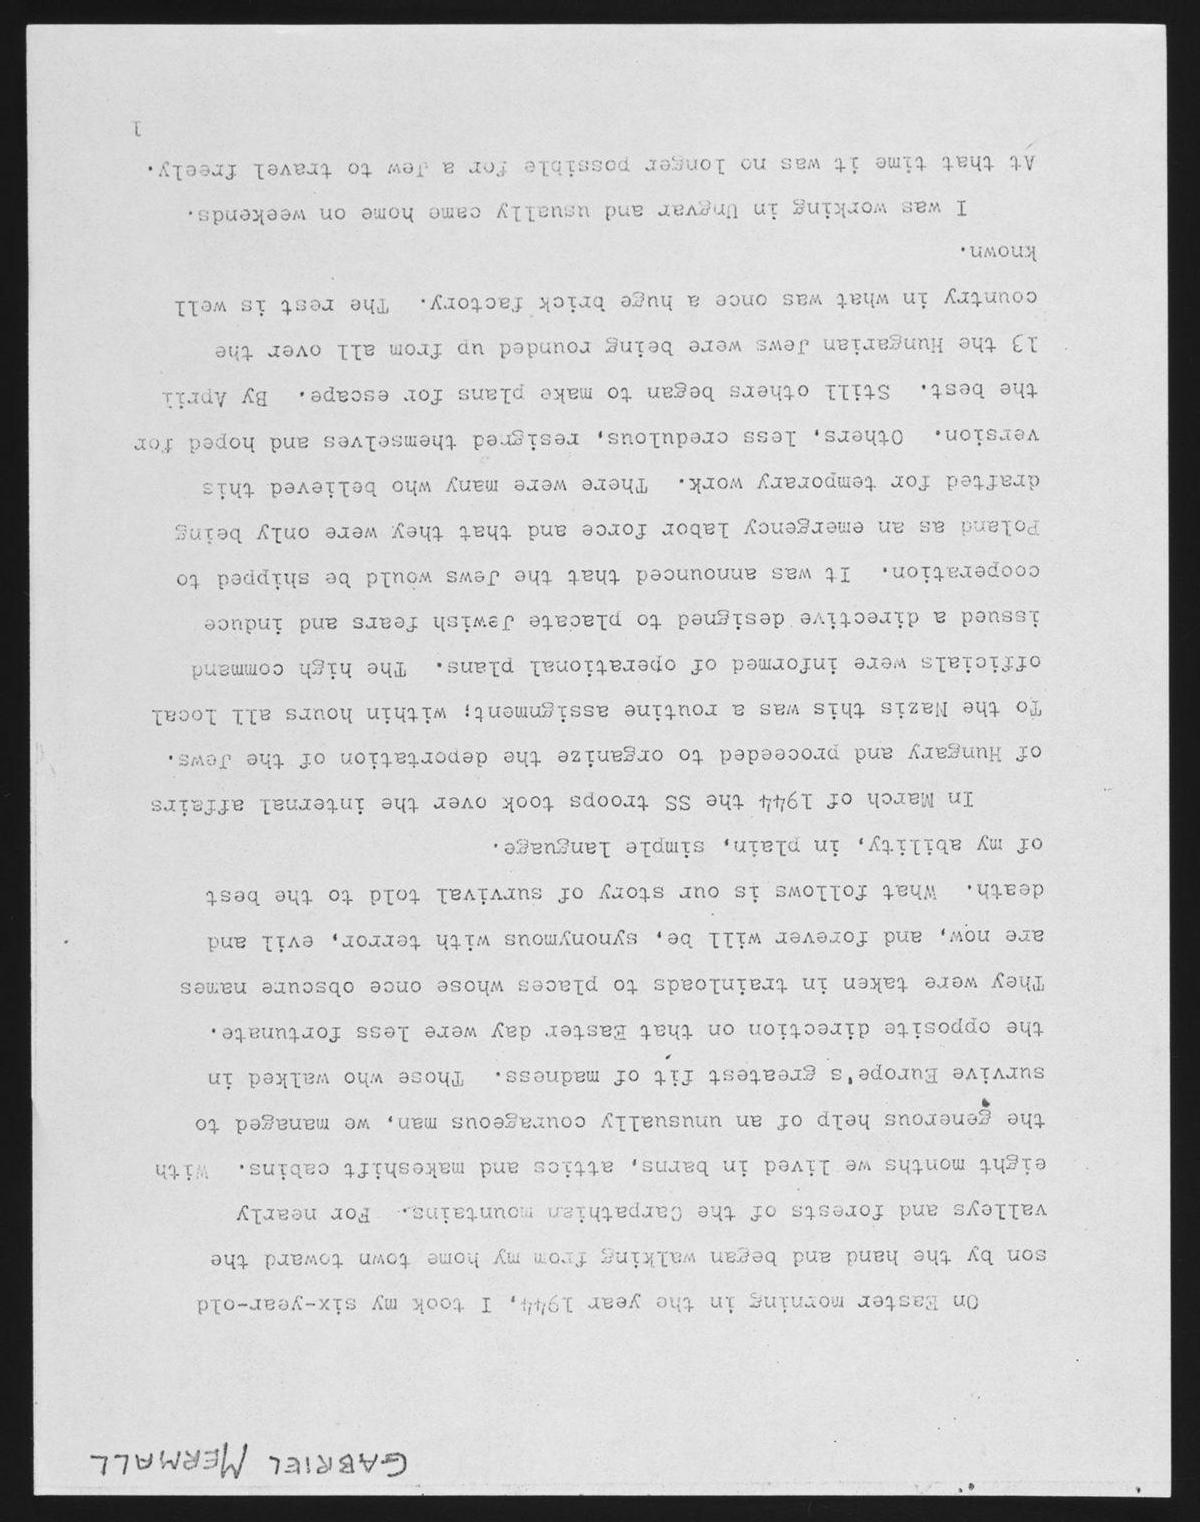
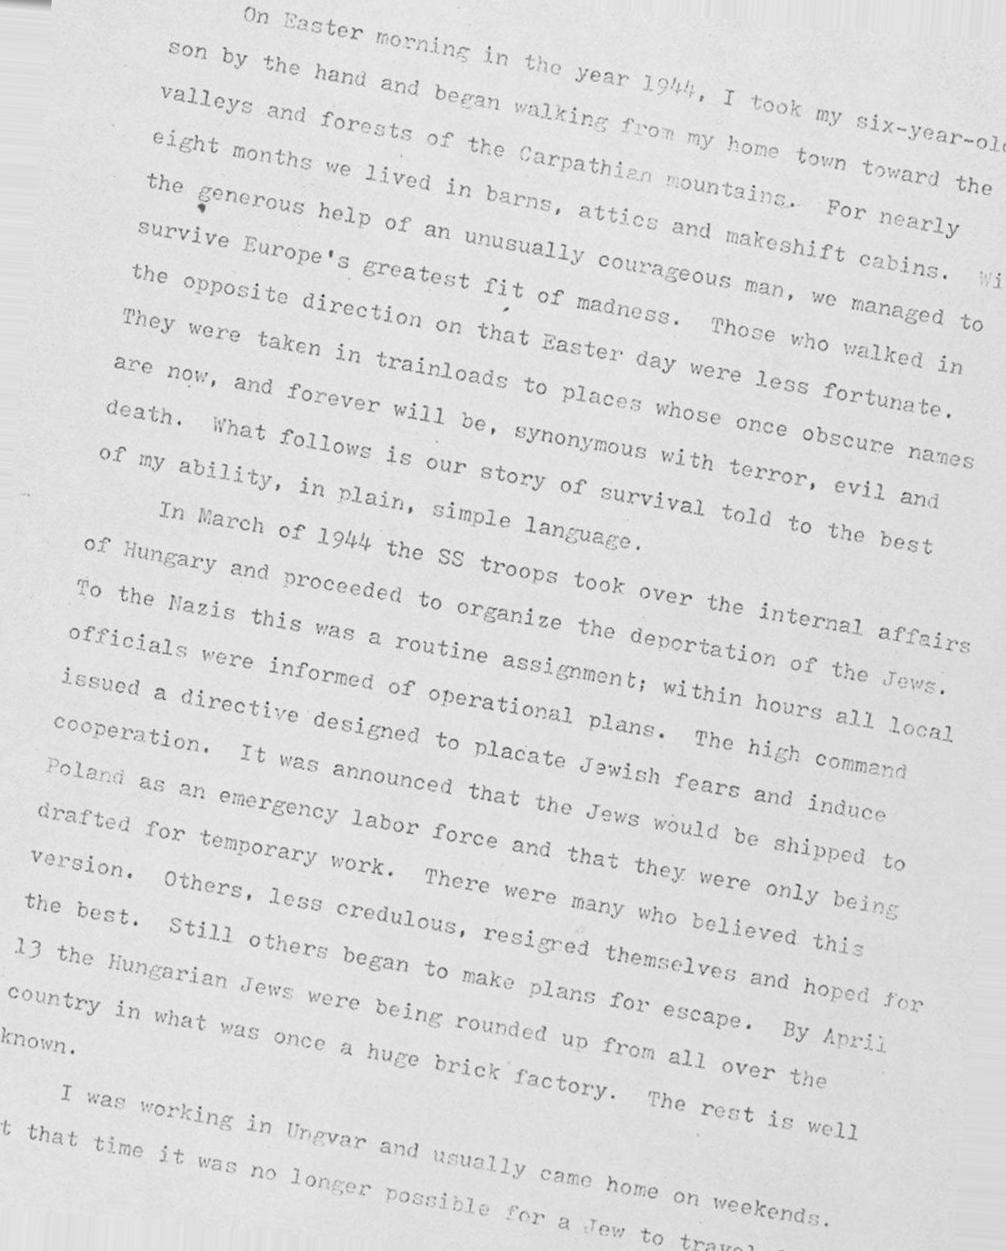
Rotation.py is not finished yet.

diff --git a/ImageProcessing/Rotation.py b/ImageProcessing/Rotation.py
@@ -1,33 +1,53 @@
 from PIL import Image 
 from Utility import Numpy2Image, Image2Numpy
+from GrayImage import GrayImage
+from Convolution import GaussBlur
+from Threshold import OtsuBinaryPx
 import numpy as np 
 import cv2
 
-def GetSkewAngle(cvImage):
+def GetSkewAngle(img):
     # https://github.com/wjbmattingly/ocr_python_textbook/blob/main/02_02_working%20with%20opencv.ipynb
-    # Prep image, copy, convert to gray scale, blur, and threshold
-    newImage = cvImage.copy()
-    gray = cv2.cvtColor(newImage, cv2.COLOR_BGR2GRAY)
-    blur = cv2.GaussianBlur(gray, (9, 9), 0)
-    thresh = cv2.threshold(blur, 0, 255, cv2.THRESH_BINARY_INV + cv2.THRESH_OTSU)[1]
-
-    # Apply dilate to merge text into meaningful lines/paragraphs.
-    # Use larger kernel on X axis to merge characters into single line, cancelling out any spaces.
-    # But use smaller kernel on Y axis to separate between different blocks of text
-    kernel = cv2.getStructuringElement(cv2.MORPH_RECT, (30, 5))
+    
+    #####################################################################################################################
+    
+    newImage = img.copy()
+    gray = GrayImage(newImage)
+    blur = GaussBlur(gray,9)
+    thresh = OtsuBinaryPx(blur,isinverse=True)
+    
+    #####################################################################################################################
+    
+    # https://docs.opencv.org/4.x/d9/d61/tutorial_py_morphological_ops.html
+    #kernel = cv2.getStructuringElement(cv2.MORPH_RECT, (30, 5))
+    kernel = np.ones((5,30))
     dilate = cv2.dilate(thresh, kernel, iterations=2)
 
+    #####################################################################################################################
+
     # Find all contours
+    '''
+    Read this
+    * https://docs.opencv.org/4.x/d4/d73/tutorial_py_contours_begin.html
+
+    Then fix this code
+    '''
     contours, hierarchy = cv2.findContours(dilate, cv2.RETR_LIST, cv2.CHAIN_APPROX_SIMPLE)
     contours = sorted(contours, key = cv2.contourArea, reverse = True)
     for c in contours:
         rect = cv2.boundingRect(c)
         x,y,w,h = rect
         cv2.rectangle(newImage,(x,y),(x+w,y+h),(0,255,0),2)
-
+    print('What is contours ?')
+    print(type(contours))
+    print('Show elements of contours.')
+    for i in contours:
+        print(i)
     # Find largest contour and surround in min area box
     largestContour = contours[0]
-    print (len(contours))
+    print('largestContour')
+    print(largestContour)
+    #print (len(contours))
     minAreaRect = cv2.minAreaRect(largestContour)
     cv2.imwrite("temp/boxes.jpg", newImage)
     # Determine the angle. Convert it to the value that was originally used to obtain skewed image
@@ -37,14 +57,18 @@ def GetSkewAngle(cvImage):
     return -1.0 * angle
 
 # Rotate the image around its center
-def Rotate(cvImage, angle=None):
-    newImage = cvImage.copy()
-    (h, w) = newImage.shape[:2]
+def Rotate(img, angle=None):
+    (h, w) = img.shape[:2]
     center = (w // 2, h // 2)
     if angle==None:
-        angle = GetSkewAngle(cvImage)
-    M = cv2.getRotationMatrix2D(center, angle, 1.0)
-    newImage = cv2.warpAffine(newImage, M, (w, h), flags=cv2.INTER_CUBIC, borderMode=cv2.BORDER_REPLICATE)
-    return newImage
+        angle = GetSkewAngle(img)
+    rotation_matrix = cv2.getRotationMatrix2D(center, angle, 1.0)
+    return cv2.warpAffine(
+        img, 
+        rotation_matrix, 
+        (w, h), 
+        flags=cv2.INTER_CUBIC, 
+        borderMode=cv2.BORDER_REPLICATE
+        )
 
 

diff --git a/exPyDH01_Page/Preprocess.py b/exPyDH01_Page/Preprocess.py
@@ -16,9 +16,10 @@ import cv2
 
 img_path01 = '/Users/imac/Desktop/JOCR_SOBA/exPyDH01_Page/Image/image_Original.jpg'
 img_path02 = '/Users/imac/Desktop/JOCR_SOBA/exJojoSoba/IMG_7563.jpeg'
-img = show.ReadImage(img_path01)
+img_path03 = '/Users/imac/Desktop/JOCR_SOBA/exPyDH01_Page/Image/page_01_rotated.jpeg'
+img = show.ReadImage(img_path03)
 img=GrayImage(img)
-img=Rotate(img,180)
+img=Rotate(img)
 Index=''
 #img=RemoveNoise.RemoveNoise(img)
 #img=Threshold.BinaryPx(img,210)
@@ -32,5 +33,5 @@ show.ShowImage(img)
 show.SaveImage(img,"Sharpen_New"+str(Index))
 
 '''
-python3 Preprocess.py
+python3 Preprocess.py 
 '''

diff --git a/ImageProcessing/Convolution.py b/ImageProcessing/Convolution.py
@@ -8,6 +8,8 @@ def Sharpen(img,ls=[-0.1,-5],center_px=None):
     # https://youtu.be/KuXjwB4LzSA?si=mt-leKGKjpMnJGfg
     # https://www.geeksforgeeks.org/python-opencv-filter2d-function/
     # Edge Detection
+    # Time : O(n^2)
+    # Space: O(n^2)
     kernel_area=len(ls)*2+1
     kernel = np.ones((kernel_area,kernel_area))
     for i in range(len(ls)):
